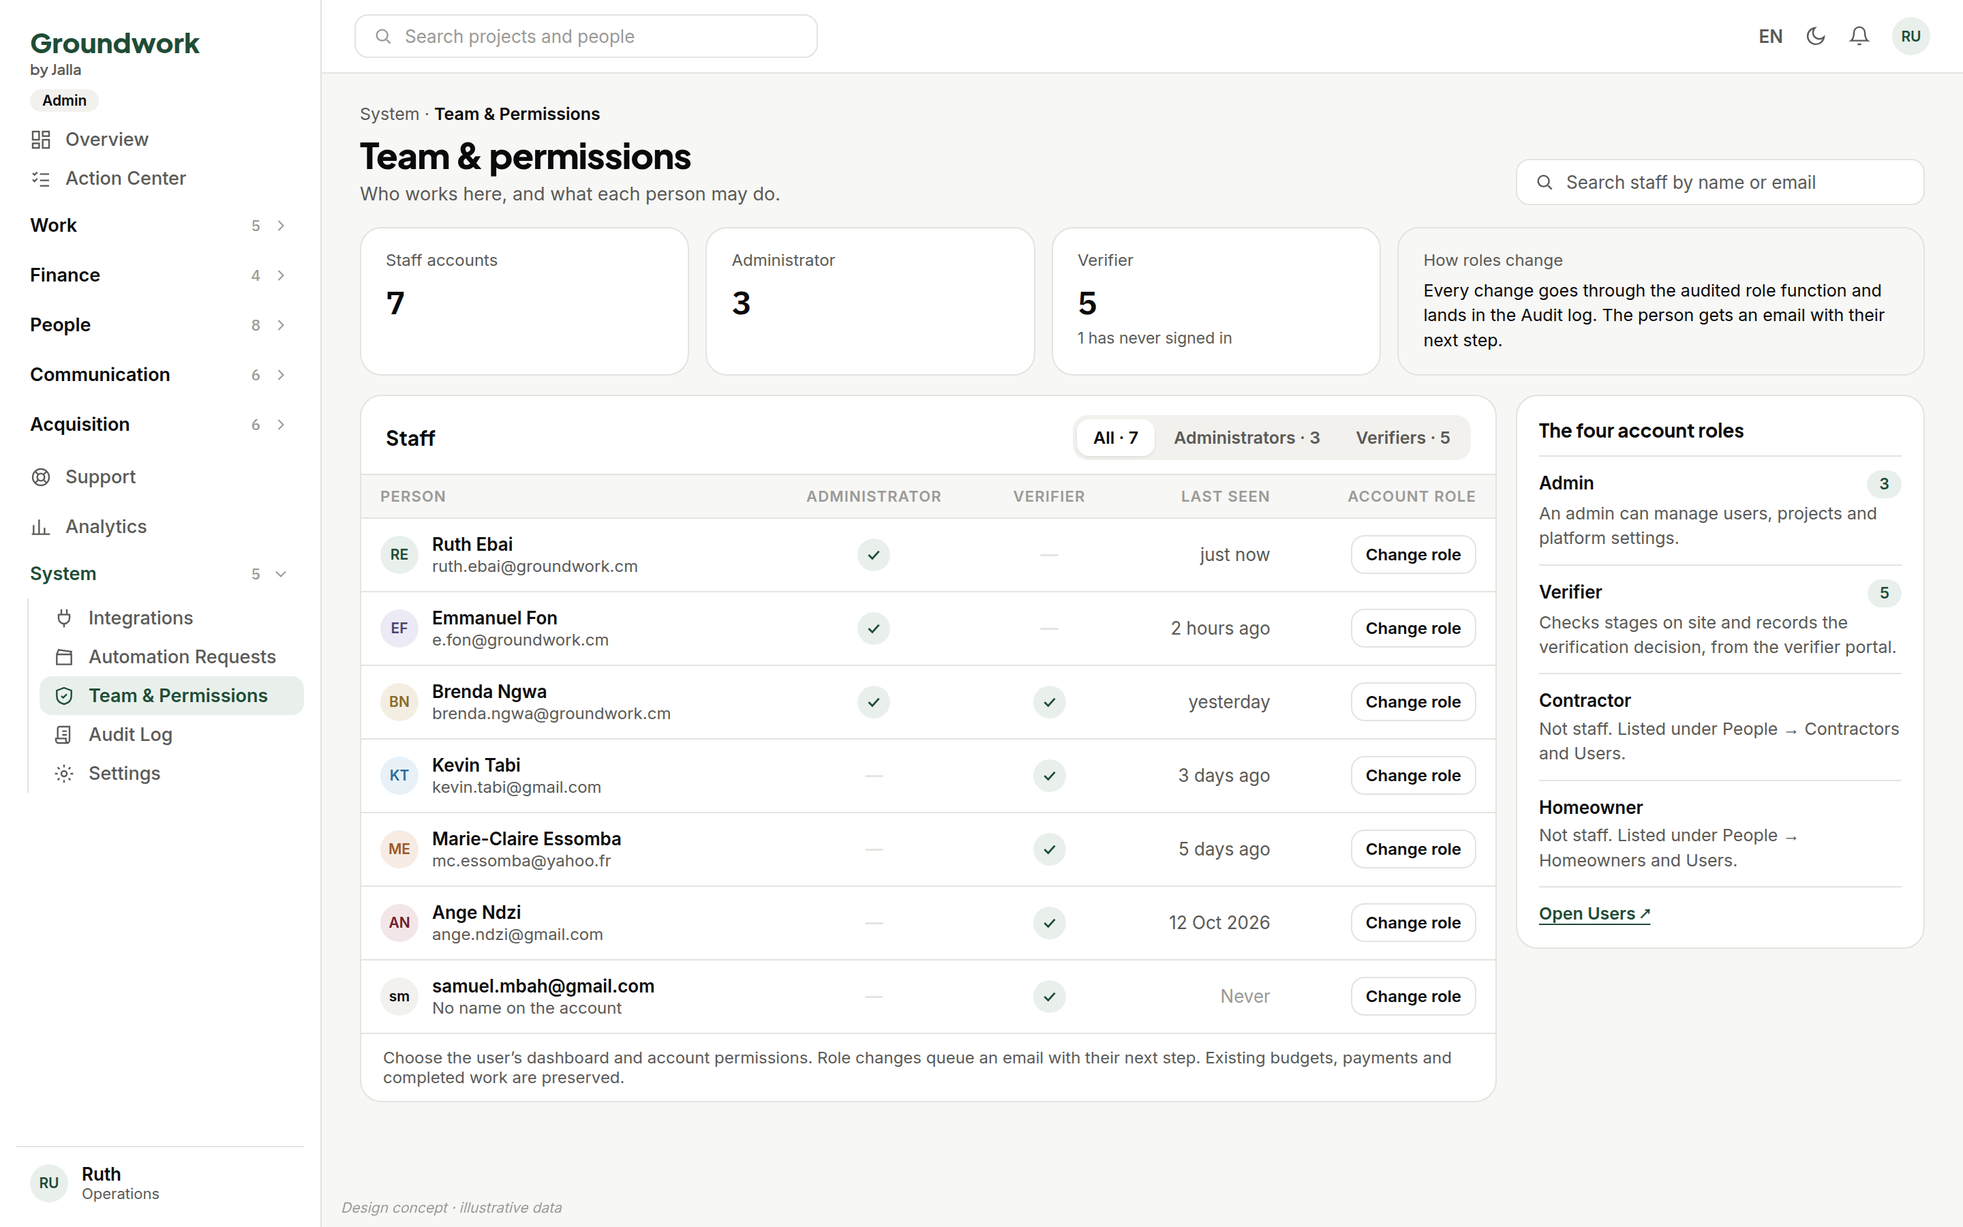
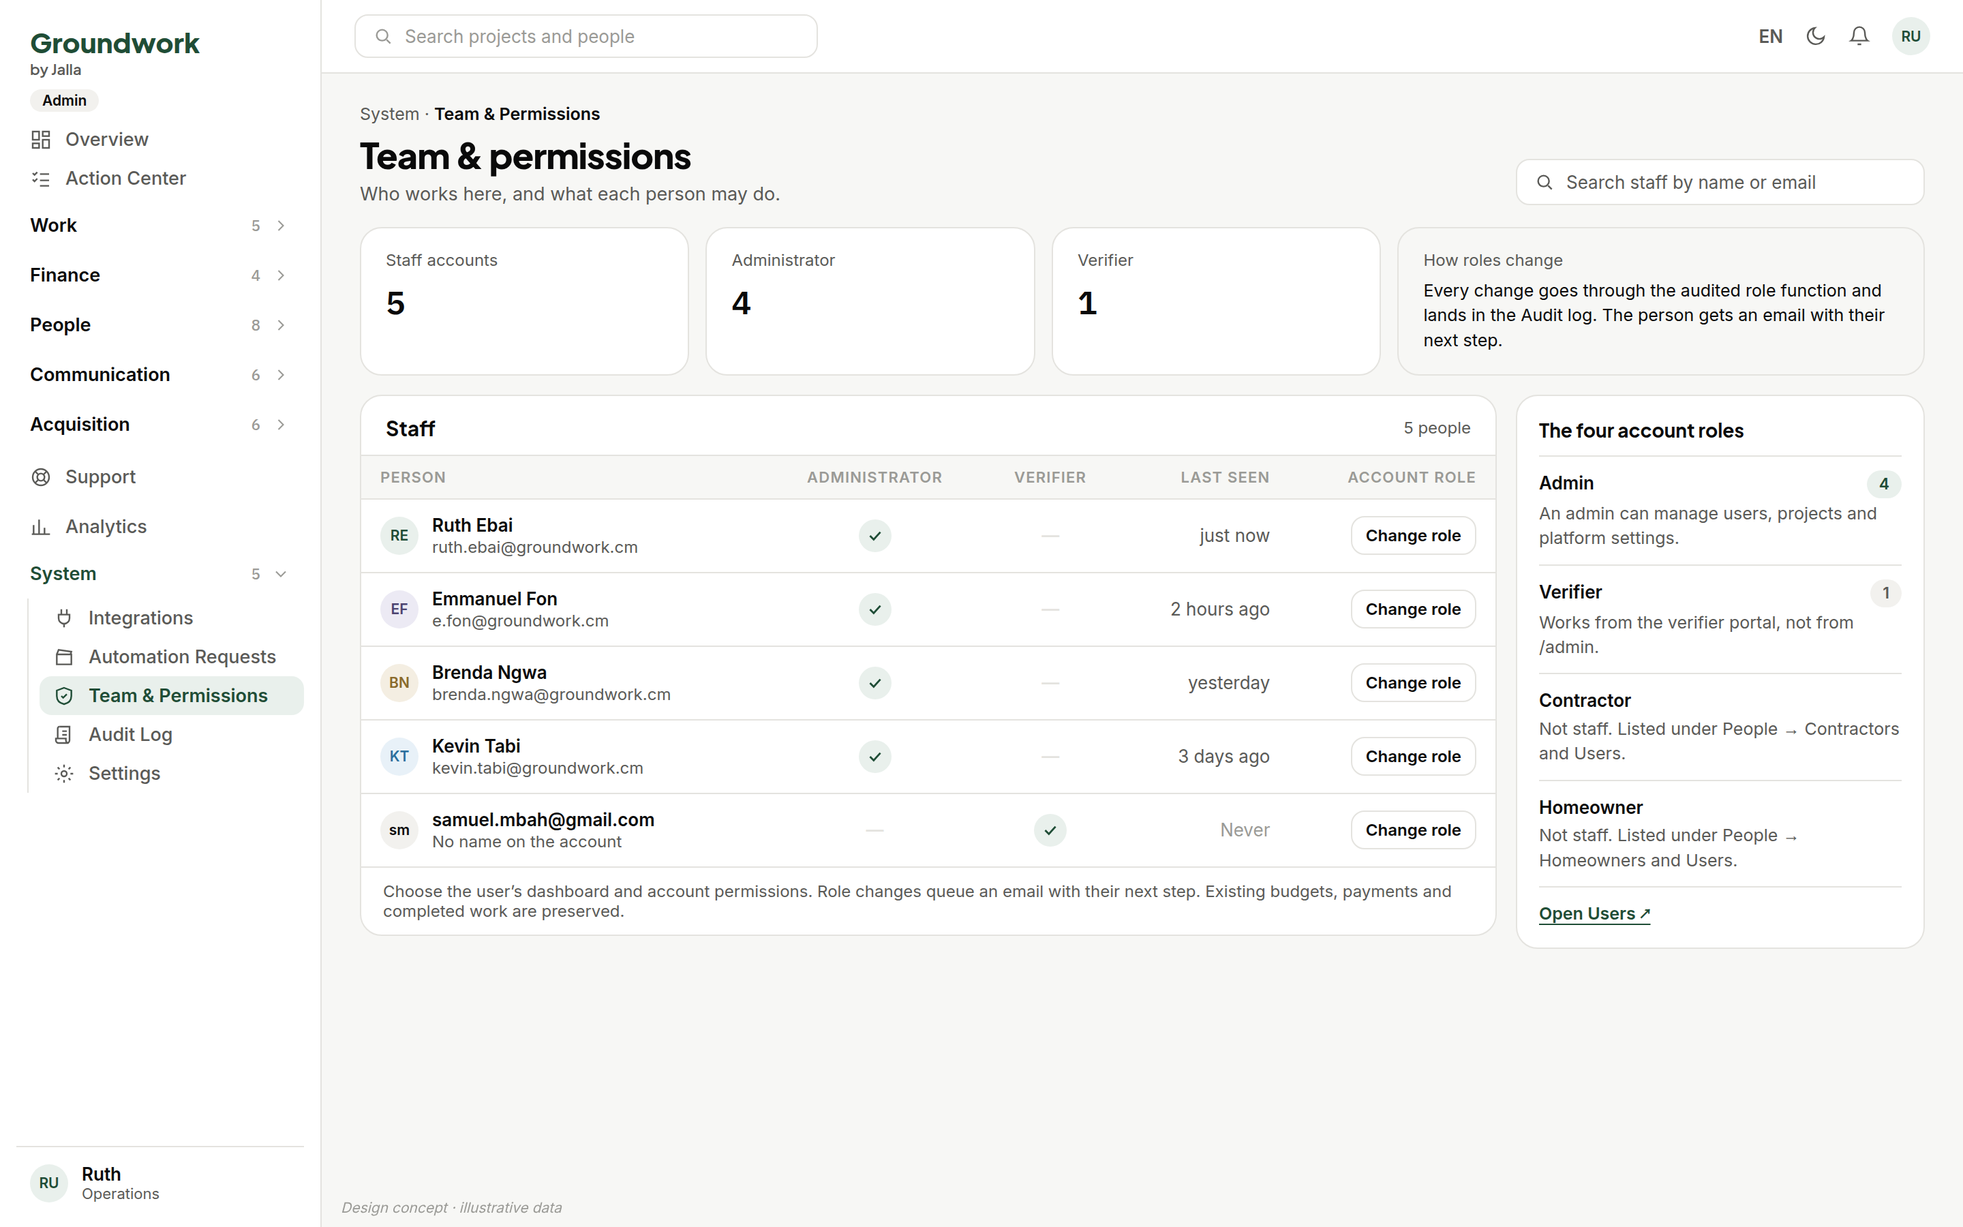
feat: update StagesTab component with milestone display and redesign for improved clarity

diff --git a/src/components/admin/workspace/StagesTab.tsx b/src/components/admin/workspace/StagesTab.tsx
@@ -1,9 +1,11 @@
 import { useEffect, useState } from 'react';
 import { AnimatePresence } from 'framer-motion';
-import { Loader2 } from 'lucide-react';
+import { Link } from 'react-router';
+import { Check, Loader2, Lock } from 'lucide-react';
 import type { LoadedWorkspace } from '@/lib/supabase/workspace';
 import type { StageView, Workspace } from '@/lib/admin/workspace';
-import { nameLookup, selectedStage } from '@/lib/admin/workspace-params';
+import { nameLookup, selectedStage, workspaceHref } from '@/lib/admin/workspace-params';
+import { projectMoneyPair } from '@/lib/budget/project-money';
 import { stageActions, type StageAction, type StageActionKind } from '@/lib/admin/stage-actions';
 import { BLOCKER_LABEL } from '@/lib/admin/lifecycle-badge';
 import { requestVerification, recordVerification, type VerificationDecision } from '@/lib/supabase/verifications';
@@ -52,13 +54,26 @@ export function StagesTab({ loaded, stageId, onChanged }: { loaded: LoadedWorksp
   const t = useT();
   const ws = loaded.workspace;
   const selected = selectedStage(ws, stageId);
+  const doneCount = ws.stages.filter(s => s.stage.status === 'complete').length;
 
   return (
-    <div className="grid gap-5 p-5 sm:p-6 lg:grid-cols-[18rem_minmax(0,1fr)] 2xl:p-8">
+    <div className="grid items-start gap-4 p-4 sm:p-6 lg:grid-cols-[20.5rem_minmax(0,1fr)] 2xl:p-8">
       <aside className="min-w-0 overflow-hidden rounded-2xl border border-brand-border-grey bg-white dark:border-[#2c2c2c] dark:bg-[#1e1e1e] lg:self-start">
+        {ws.stages.length > 0 && (
+          // 18 Nov redesign: where the build is, before which stage is open.
+          <header className="border-b border-brand-border-grey px-5 py-4 dark:border-[#2c2c2c]">
+            <p className="flex items-baseline justify-between gap-2">
+              <span className="text-[15px] font-bold text-brand-near-black dark:text-white">{t('admin.workspace.overview.ladder')}</span>
+              <span className="text-xs text-brand-mid-grey">{t('admin.workspace.stagesView.complete', { done: doneCount, total: ws.stages.length })}</span>
+            </p>
+            <span className="mt-2 block h-1.5 overflow-hidden rounded-full bg-brand-light-grey">
+              <span className="block h-full rounded-full bg-brand-green dark:bg-state-complete" style={{ width: `${Math.round((doneCount / ws.stages.length) * 100)}%` }} />
+            </span>
+          </header>
+        )}
         {ws.stages.length === 0
           ? <p className="px-5 py-6 text-center text-xs text-brand-mid-grey">{t('admin.workspace.overview.noSchedule')}</p>
-          : <StageLadder projectId={ws.project.id} stages={ws.stages} selectedId={selected?.stage.id ?? null} tab="stages" />}
+          : <StageLadder projectId={ws.project.id} stages={ws.stages} selectedId={selected?.stage.id ?? null} tab="stages" showMilestone />}
       </aside>
       <section className="min-w-0 overflow-hidden rounded-2xl border border-brand-border-grey bg-white dark:border-[#2c2c2c] dark:bg-[#1e1e1e]">
         {selected
@@ -176,13 +191,64 @@ function StageDetail({ ws, loaded, view, onChanged }: { ws: Workspace; loaded: L
   }
 
   const offered = actions.filter(a => a.offered);
+  // The act to do next: the first one that is live. Held acts stay listed with their reason.
+  const primaryAct = offered.find(a => a.enabled) ?? null;
+
+  // The amount in the project's own currency, at the project's recorded rate (Favour,
+  // 18 Nov: USD and XAF). Null for a project priced in USD.
+  const local = (usd: number) => { const pair = projectMoneyPair(ws.project, usd); return pair && pair.usd ? pair.local : null; };
+
+  // Every incoming row the ledger holds for this stage, oldest first: the parts.
+  const parts = ws.financials.payments
+    .filter(p => p.direction === 'in' && p.stageId === view.stage.id)
+    .sort((a, b) => a.createdAt.localeCompare(b.createdAt));
+  let received = 0;
+  for (const p of parts) if (p.state === 'funded' || p.state === 'reconciled') received += p.amount;
+
+  // The six-step rail: each step's tone and one line, read from the same view as the grid.
+  type Tone = 'done' | 'current' | 'alert' | 'locked' | 'waiting';
+  const st = view.stage.status;
+  const verRequired = view.stage.verification_required === true;
+  const railTone = {
+    work: (st === 'complete' || st === 'pending_review' ? 'done' : st === 'active' ? 'current' : 'waiting') as Tone,
+    evidence: (evidencePaths.length > 0 ? 'done' : st === 'active' ? 'current' : 'waiting') as Tone,
+    verification: (!verRequired || v?.decision === 'verified' ? (st === 'locked' ? 'waiting' : 'done')
+      : v?.decision === 'pending' ? 'current' : v ? 'alert' : st === 'pending_review' ? 'current' : 'waiting') as Tone,
+    approval: (st === 'complete' ? 'done' : st === 'pending_review' ? (action('approve')?.enabled ? 'current' : 'locked') : 'waiting') as Tone,
+    funding: (milestone <= 0 ? 'waiting' : received >= milestone ? 'done' : received > 0 || view.tranche ? 'current' : 'waiting') as Tone,
+    release: (view.release?.state === 'disbursed' ? 'done' : view.release?.state === 'failed' ? 'alert' : view.release ? 'current' : 'waiting') as Tone,
+  };
+  const rail: { key: string; title: string; tone: Tone; note: string }[] = [
+    { key: 'work', title: t('admin.workspace.stages.work'), tone: railTone.work,
+      note: t(st === 'complete' || st === 'pending_review' ? 'admin.workspace.stagesView.rail.workDone' : st === 'active' ? 'admin.workspace.stagesView.rail.workActive' : 'admin.workspace.stagesView.rail.workLocked') },
+    { key: 'evidence', title: t('admin.workspace.stage.evidence'), tone: railTone.evidence,
+      note: evidencePaths.length > 0 ? t('admin.workspace.stagesView.rail.evidence', { files: evidencePaths.length, updates: view.siteUpdates.length }) : t('admin.workspace.stagesView.rail.evidenceNone') },
+    { key: 'verification', title: t('admin.workspace.stages.verification'), tone: railTone.verification,
+      note: !verRequired ? t('admin.workspace.stagesView.rail.verifNotRequired') : v ? `${t(decisionKey(v.decision))} · ${who(v.verifierId)}` : t('admin.workspace.stagesView.rail.verifNone') },
+    { key: 'approval', title: t('admin.workspace.stages.approval'), tone: railTone.approval,
+      note: st === 'complete' ? t('admin.workspace.stages.approvedOn', { date: formatDate(view.stage.completed_at) })
+        : st === 'pending_review' ? t(action('approve')?.enabled ? 'admin.workspace.stagesView.rail.approvalReady' : 'admin.workspace.stagesView.rail.approvalLocked')
+        : t('admin.workspace.stagesView.rail.approvalWaiting') },
+    { key: 'funding', title: t('admin.workspace.stage.tranche'), tone: railTone.funding,
+      note: milestone > 0 ? t('admin.workspace.stagesView.rail.fundingOf', { received: formatUSDFull(received), total: formatUSDFull(milestone) }) : t('admin.workspace.stage.milestoneNone') },
+    { key: 'release', title: t('admin.workspace.stage.release'), tone: railTone.release,
+      note: view.release ? `${t(`admin.ledger.state.${view.release.state}` as TKey)} · ${formatUSDFull(view.release.amount)}` : t('admin.workspace.stagesView.rail.releaseNone') },
+  ];
 
   return (
     <div>
       {/* ── Head: what this stage is, its state, every blocker ───────────────────── */}
-      <header className="border-b border-brand-border-grey px-5 py-4 dark:border-[#2c2c2c]">
-        <p className="text-[11px] font-semibold uppercase tracking-wide text-brand-muted-grey">{t('admin.workspace.stage.eyebrow', { n: view.stage.stage_number })}</p>
-        <h2 className="mt-0.5 text-lg font-semibold text-brand-near-black dark:text-white">{stageLabel(view.stage)}</h2>
+      <header className="border-b border-brand-border-grey px-5 py-5 dark:border-[#2c2c2c]">
+        <div className="flex items-start justify-between gap-3">
+          <div className="min-w-0">
+            <p className="text-[11px] font-semibold uppercase tracking-wide text-brand-muted-grey">{t('admin.workspace.stage.eyebrow', { n: view.stage.stage_number })}</p>
+            <h2 className="mt-0.5 text-2xl font-extrabold tracking-tight text-brand-near-black dark:text-white">{stageLabel(view.stage)}</h2>
+          </div>
+          <Link to={workspaceHref(ws.project.id, { tab: 'overview', stageId: view.stage.id })}
+            className="shrink-0 text-[13px] font-semibold text-brand-green underline underline-offset-2 dark:text-state-complete">
+            {t('admin.workspace.stagesView.openOverview')}
+          </Link>
+        </div>
         <div className="mt-1.5 flex flex-wrap items-center gap-x-4 gap-y-1">
           <StageLifecycleBadge lifecycle={view.lifecycle} showBlocker={false} />
           {view.lifecycle.blockers.filter(b => b !== 'on_hold').map(b => (
@@ -191,11 +257,46 @@ function StageDetail({ ws, loaded, view, onChanged }: { ws: Workspace; loaded: L
           {view.stage.completed_at && (
             <span className="text-xs text-brand-mid-grey">{t('admin.workspace.stages.approvedOn', { date: formatDate(view.stage.completed_at) })}</span>
           )}
+          {milestone > 0 && (
+            <span className="text-xs text-brand-mid-grey">
+              {t('admin.workspace.stagesView.milestone')}{' '}
+              <span className="font-semibold tabular-nums text-brand-near-black dark:text-white">{formatUSDFull(milestone)}</span>
+              {local(milestone) && <> · {local(milestone)}</>}
+            </span>
+          )}
         </div>
+
+        {/* ── Where the stage is in the loop, at a glance (18 Nov redesign) ───────── */}
+        <ol className="mt-5 grid grid-cols-3 gap-y-4 sm:grid-cols-6">
+          {rail.map((r, i) => (
+            <li key={r.key} className="relative min-w-0 pr-2">
+              {i < rail.length - 1 && (
+                <span aria-hidden className={cn('absolute left-8 right-0 top-[15px] hidden h-0.5 sm:block',
+                  r.tone === 'done' ? 'bg-brand-green dark:bg-state-complete' : 'bg-brand-border-grey dark:bg-[#2c2c2c]')} />
+              )}
+              <span className={cn('relative grid size-8 place-items-center rounded-full text-xs font-bold tabular-nums',
+                r.tone === 'done' ? 'bg-brand-green text-white dark:bg-state-complete'
+                : r.tone === 'current' ? 'border-2 border-state-held bg-white text-state-held dark:bg-[#1e1e1e]'
+                : r.tone === 'alert' ? 'border-2 border-state-alert bg-white text-state-alert dark:bg-[#1e1e1e]'
+                : r.tone === 'locked' ? 'border border-brand-border-grey bg-white text-brand-muted-grey dark:border-[#2c2c2c] dark:bg-[#1e1e1e]'
+                : 'border border-brand-border-grey bg-white text-brand-mid-grey dark:border-[#2c2c2c] dark:bg-[#1e1e1e]')}>
+                {r.tone === 'done' ? <Check className="size-4" aria-hidden /> : r.tone === 'locked' ? <Lock className="size-3.5" aria-hidden /> : i + 1}
+              </span>
+              <p className={cn('mt-2 text-[13px] font-semibold', r.tone === 'current' ? 'text-state-held' : r.tone === 'alert' ? 'text-state-alert' : 'text-brand-near-black dark:text-white')}>{r.title}</p>
+              <p className="mt-0.5 text-xs leading-snug text-brand-mid-grey">{r.note}</p>
+            </li>
+          ))}
+        </ol>
 
         {/* ── Action row: the acts this state admits, each live or held with its reason ── */}
         {offered.length > 0 && (
-          <div className="mt-4 flex flex-col gap-2">
+          <div className="mt-5 flex flex-col gap-2.5 rounded-2xl border-[1.5px] border-brand-green p-4 dark:border-state-complete">
+            <p className="text-[11px] font-bold uppercase tracking-[0.06em] text-brand-green dark:text-state-complete">{t('admin.workspace.stagesView.nextAction')}</p>
+            <p className="-mt-1 text-[15px] font-bold text-brand-near-black dark:text-white">
+              {primaryAct
+                ? t(`admin.workspace.stagesView.next.${primaryAct.kind}` as TKey, { name: v ? who(v.verifierId) : '' })
+                : t('admin.workspace.stagesView.nextNone')}
+            </p>
             <div className="flex flex-wrap gap-2">
               {offered.map(a => (
                 <button
@@ -205,10 +306,12 @@ function StageDetail({ ws, loaded, view, onChanged }: { ws: Workspace; loaded: L
                   onClick={() => onAction(a.kind)}
                   title={a.reasonKey ? t(a.reasonKey) : undefined}
                   className={cn(
-                    'inline-flex items-center gap-1.5 rounded-xl px-3 py-2 text-xs font-semibold transition-colors disabled:cursor-not-allowed disabled:opacity-40',
-                    a.kind === 'approve' || a.kind === 'authorise_release'
-                      ? 'bg-brand-near-black text-white hover:bg-black dark:bg-white dark:text-brand-near-black dark:hover:bg-white/90'
-                      : 'border border-brand-border-grey text-brand-near-black hover:border-brand-near-black dark:border-[#2c2c2c] dark:text-white dark:hover:border-white',
+                    'inline-flex items-center gap-1.5 rounded-xl px-3.5 py-2 text-[13px] font-semibold transition-colors disabled:cursor-not-allowed disabled:opacity-40',
+                    // The one act to do next is the filled button; Approve and Authorise
+                    // release keep the filled style whenever they are offered.
+                    a === primaryAct || a.kind === 'approve' || a.kind === 'authorise_release'
+                      ? 'bg-brand-green text-white hover:bg-brand-green-hover dark:bg-state-complete'
+                      : 'border border-brand-border-grey bg-white text-brand-near-black hover:border-brand-near-black dark:border-[#2c2c2c] dark:bg-[#1e1e1e] dark:text-white dark:hover:border-white',
                   )}
                 >
                   {busy === a.kind && <Loader2 className="size-3.5 animate-spin" />}
@@ -218,8 +321,9 @@ function StageDetail({ ws, loaded, view, onChanged }: { ws: Workspace; loaded: L
             </div>
             {/* Every held act says why, in the database's words. */}
             {offered.filter(a => !a.enabled && a.reasonKey).map(a => (
-              <p key={a.kind} className="text-[11px] text-brand-mid-grey">
-                <span className="font-medium text-brand-near-black dark:text-white">{t(ACTION_LABEL[a.kind])}</span> — {t(a.reasonKey as TKey)}
+              <p key={a.kind} className="flex items-start gap-2 rounded-xl border border-dashed border-brand-border-grey px-3 py-2 text-xs text-brand-mid-grey dark:border-[#3a3a3a]">
+                <Lock className="mt-px size-3.5 shrink-0" aria-hidden />
+                <span><span className="font-semibold text-brand-near-black dark:text-white">{t(ACTION_LABEL[a.kind])}</span> — {t(a.reasonKey as TKey)}</span>
               </p>
             ))}
             {picker && action('request_verification').enabled && (
@@ -242,7 +346,7 @@ function StageDetail({ ws, loaded, view, onChanged }: { ws: Workspace; loaded: L
       </header>
 
       {/* ── The loop, step by step ───────────────────────────────────────────────── */}
-      <ol className="divide-y divide-brand-border-grey dark:divide-[#2c2c2c]">
+      <ol className="grid md:grid-cols-2">
         {/* 1 · Work */}
         <Step n={1} title={t('admin.workspace.stages.work')}>
           {view.substages.length === 0 ? (
@@ -347,7 +451,30 @@ function StageDetail({ ws, loaded, view, onChanged }: { ws: Workspace; loaded: L
               {view.tranche?.fundingSource === 'provider' && (
                 <span className="text-brand-mid-grey"> · {t('admin.ledger.source.provider', { when: formatRelative(view.tranche.settledAt ?? view.tranche.updatedAt) })}</span>
               )}
+              {local(milestone) && <span className="block text-[11px] text-brand-mid-grey">{local(milestone)}</span>}
             </p>
+          )}
+          {/* Every tranche the ledger holds for this stage — a stage paid in parts shows each part. */}
+          {ws.available.ledger && milestone > 0 && parts.length > 1 && (
+            <>
+              <span className="mt-2.5 block h-1.5 overflow-hidden rounded-full bg-brand-light-grey">
+                <span className="block h-full rounded-full bg-brand-green dark:bg-state-complete" style={{ width: `${Math.min(100, Math.round((received / milestone) * 100))}%` }} />
+              </span>
+              <ul className="mt-2 space-y-1">
+                {parts.map((p, i) => (
+                  <li key={p.id} className="flex flex-wrap items-center gap-x-2 text-xs">
+                    <span className={cn('size-1.5 shrink-0 rounded-full', p.state === 'funded' || p.state === 'reconciled' ? 'bg-state-complete' : 'bg-state-held')} />
+                    <span className="text-brand-near-black dark:text-white">
+                      {t('admin.workspace.stagesView.part', { n: i + 1 })} · <span className="font-semibold tabular-nums">{formatUSDFull(p.amount)}</span> · {t(`admin.ledger.state.${p.state}` as TKey)}
+                    </span>
+                    {p.fundingSource === 'staff_confirmed' && <span className="text-brand-mid-grey">{t('admin.ledger.source.staff_confirmed', { name: who(p.confirmedBy), when: formatRelative(p.confirmedAt) })}</span>}
+                  </li>
+                ))}
+              </ul>
+              <Link to={workspaceHref(ws.project.id, { tab: 'financials' })} className="mt-1.5 inline-block text-xs font-semibold text-brand-green underline underline-offset-2 dark:text-state-complete">
+                {t('admin.workspace.stagesView.openFinancials')}
+              </Link>
+            </>
           )}
         </Step>
 
@@ -439,7 +566,7 @@ function StageDetail({ ws, loaded, view, onChanged }: { ws: Workspace; loaded: L
 
 function Step({ n, title, children }: { n: number; title: string; children: React.ReactNode }) {
   return (
-    <li className="flex gap-4 px-5 py-4">
+    <li className="flex gap-3 border-b border-brand-border-grey px-5 py-4 md:odd:border-r dark:border-[#2c2c2c]">
       <span className="flex size-6 shrink-0 items-center justify-center rounded-full border border-brand-border-grey text-[11px] font-semibold tabular-nums text-brand-mid-grey dark:border-[#2c2c2c]">{n}</span>
       <div className="min-w-0 flex-1">
         <h3 className="text-[11px] font-semibold uppercase tracking-wide text-brand-muted-grey">{title}</h3>

diff --git a/src/lib/i18n/fr.ts b/src/lib/i18n/fr.ts
@@ -2558,6 +2558,10 @@ export const fr: Mirror<EnDict> = {
       projectNotFound:    'Ce chantier n\u2019existe plus \u2014 il a peut-être déjà été supprimé.',
     },
 
+    peopleUi: {
+      addedOn:      'ajout\u00e9 le {date}',
+      listedLegend: '\u00ab list\u00e9s \u00bb = projets cit\u00e9s sur leur propre formulaire de candidature, pas des travaux r\u00e9alis\u00e9s sur Groundwork',
+    },
     dir: {
       title:        'Annuaire des prestataires',
       subtitle:     "La liste publiée que les propriétaires consultent. Une entrée y apparaît lorsqu'une candidature est acceptée.",

diff --git a/src/lib/i18n/en.ts b/src/lib/i18n/en.ts
@@ -2585,6 +2585,10 @@ export const en = {
     },
 
     // ── Contractor directory (/admin/contractors) ──
+    peopleUi: {
+      addedOn:      'added {date}',
+      listedLegend: '\u201clisted\u201d = projects named on their own application form, not work done on Groundwork',
+    },
     dir: {
       title:        'Contractor Directory',
       subtitle:     'The published list homeowners browse. Entries appear here when an application is accepted.',
